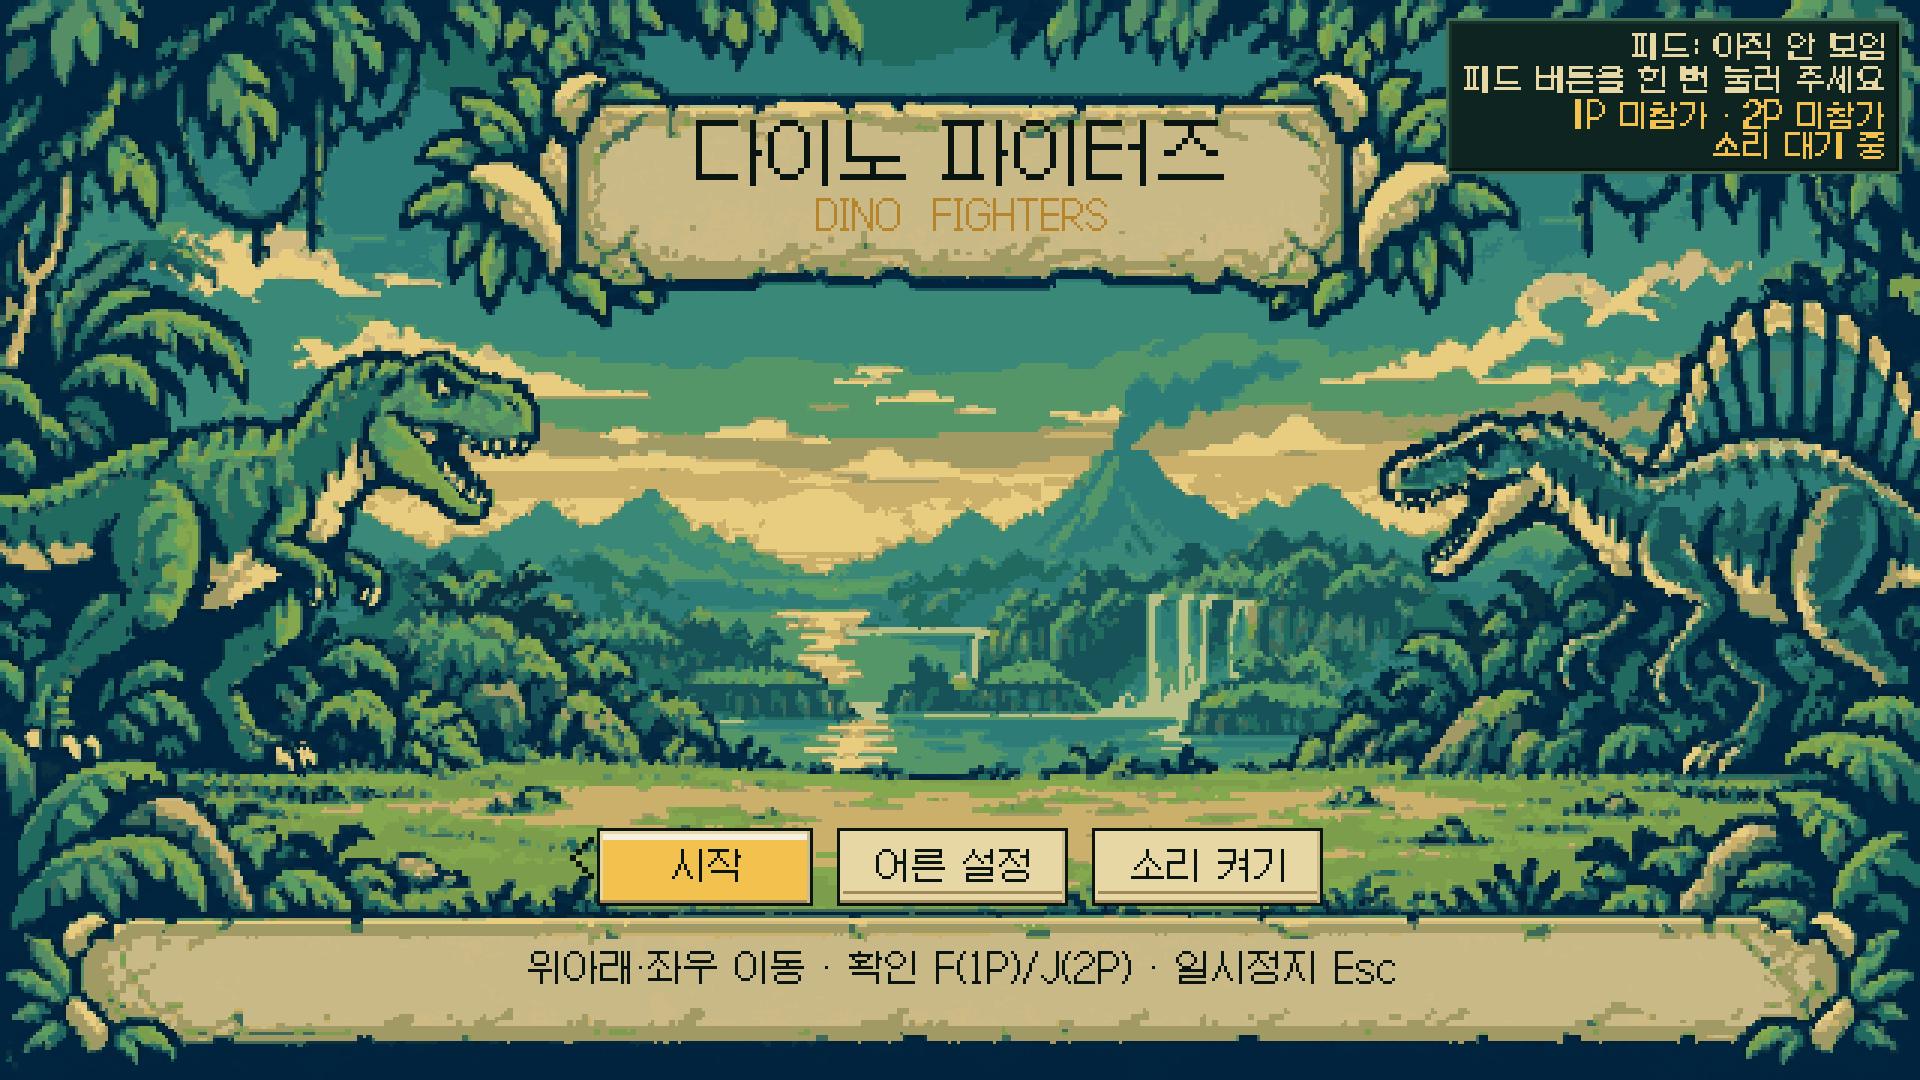
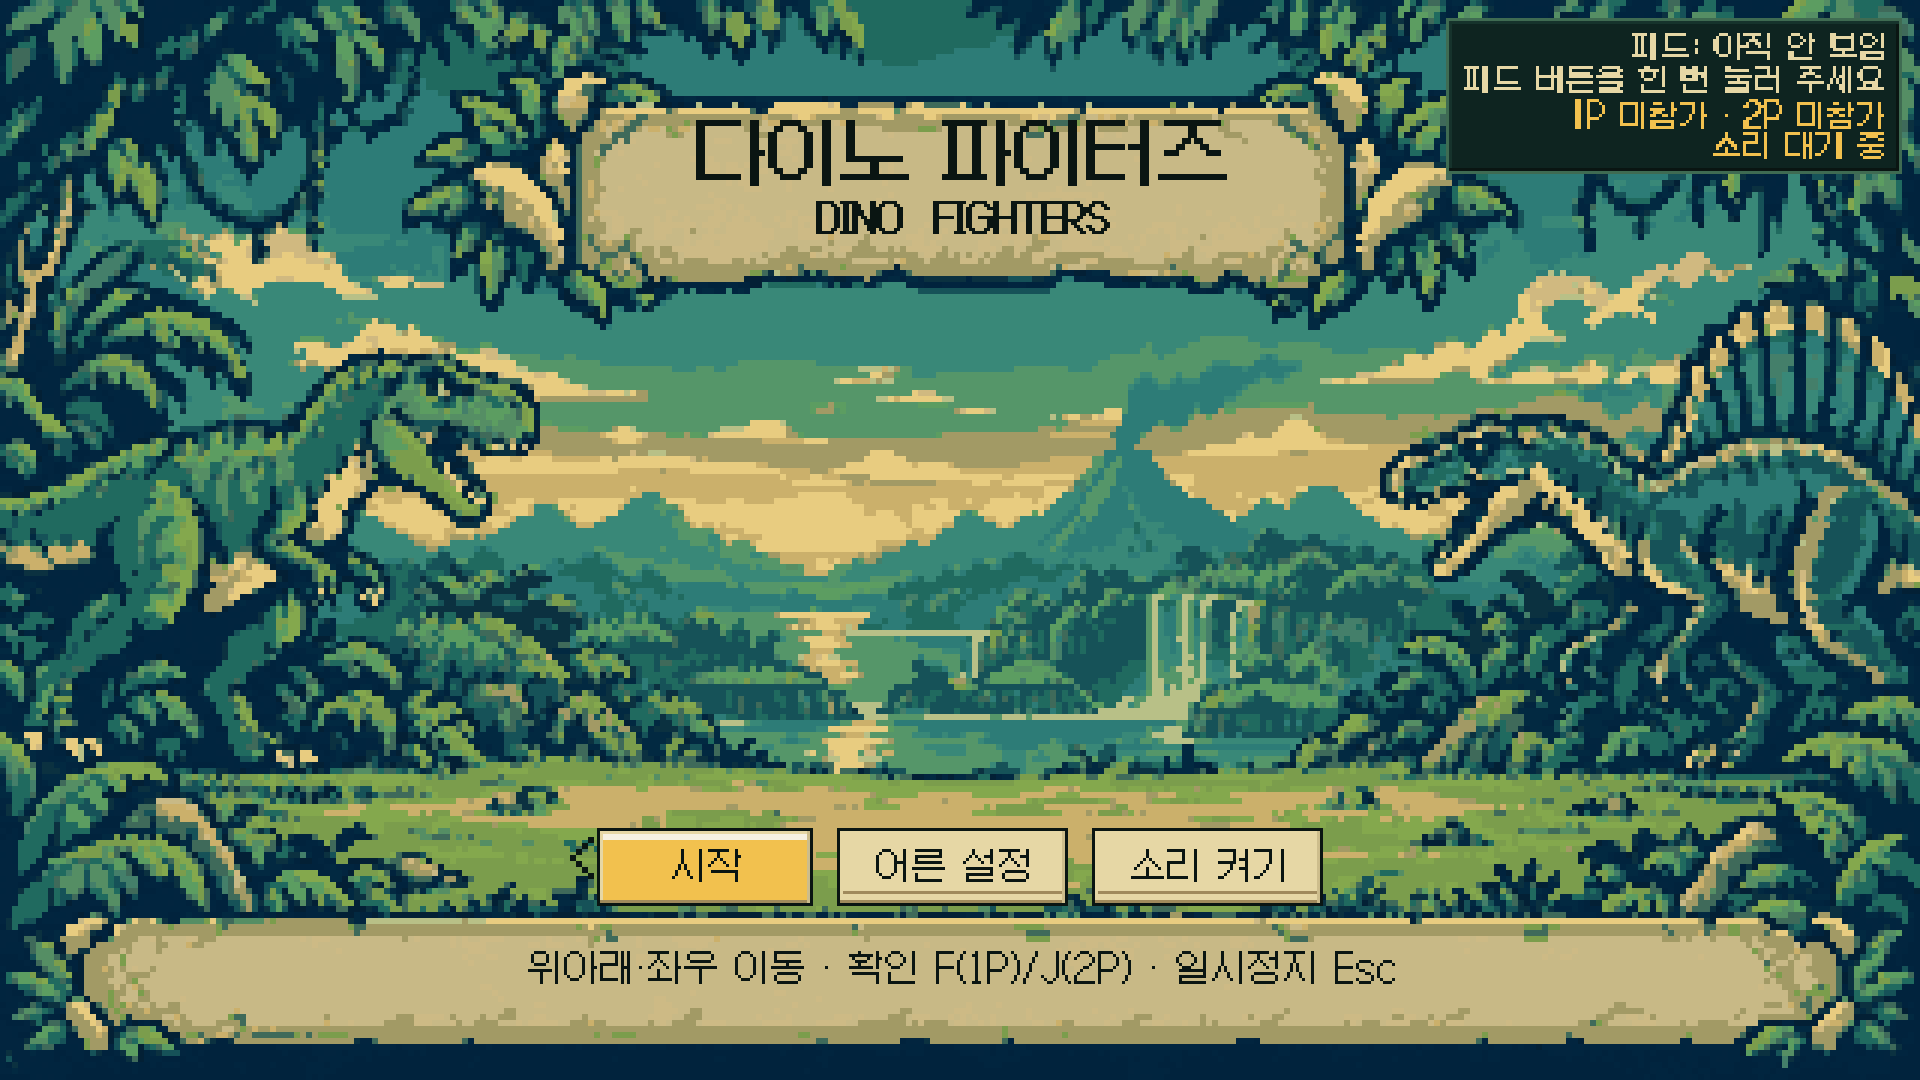
fix: 검수 반려 4건 — 도트 밀도·HUD 초상·글자 여백 + 일시정지/결과 캡처
- 타이틀 보드를 2×2 블록 양자화(다수색)로 굵게: 나뭇잎·폭포가 1px 단위로 흩어져 화면에서
  일러스트처럼 보이던 것을 다른 화면과 같은 도트 알갱이(화면 6px)로 맞췄다. 원본 보드는 그대로.
- 타이틀 로고·영문 부제에 1px 오프셋 굵기(weight 2), 부제는 잉크색으로 대비 확보.
- HUD 초상: 66 고정 크롭을 요청 상자 크기로 자르고 상자를 40→52로 키워 얼굴이 들어오게 수정
  (이전에는 66 크롭을 36 상자에 가운데 클립해 턱·목만 남았다).
- 선택 화면: 배너 제목/난이도 칩 좌우 여백 확보, 하단 판을 키우고 이름·설명·능력·안내 줄 간격 확대.
- 일시정지·결과 화면 캡처 추가(evidence-dot-font/4-pause.png, 5-result.png).
- 753 tests·tsc·build:pilot 통과.

diff --git a/src/rendering/pixel/PixelScreens.ts b/src/rendering/pixel/PixelScreens.ts
@@ -126,8 +126,9 @@ export function drawTitleScreen(g: CanvasRenderingContext2D, view: TitleView): v
     board(c, view.loader, 'title', DOT.shade);
     // 상단 배너(아티스트가 비워 둔 자리)에 로고를 도트 글자로 앉힌다.
     // 글자는 잉크 기준으로 가운데를 맞추므로(TextCenter) 두 줄 모두 배너 안쪽에 들어온다.
-    textCenter(c, '다이노 파이터즈', W / 2, 51, { size: 22, color: DOT.ink });
-    textCenter(c, 'DINO  FIGHTERS', W / 2, 72, { size: 11, color: DOT.goldDark });
+    // 배경을 2×2 블록(화면 6px)으로 눌렀으므로 로고도 굵게: 1px 오프셋 한 번(2아트px 획).
+    textCenter(c, '다이노 파이터즈', W / 2, 51, { size: 22, color: DOT.ink, weight: 2 });
+    textCenter(c, 'DINO  FIGHTERS', W / 2, 73, { size: 11, color: DOT.ink, weight: 2 });
 
     // 메뉴: 배너 바로 위 풀밭 줄에 가로 탭. 아래 양피지 배너와 9아트px 띄운다.
     const tabH = 26;
@@ -241,9 +242,9 @@ export function drawSelectScreen(g: CanvasRenderingContext2D, view: SelectView):
   inDotGrid(g, DOT_K_UI, (c) => {
     board(c, view.loader, 'select', DOT.shade);
     // 상단 배너: 왼쪽에 제목, 오른쪽에 지금 적용되는 난이도·도움(기존판과 같은 정보).
-    text(c, '공룡을 고르세요', SELECT_BANNER.left + 26, SELECT_BANNER.y, { size: 13, color: DOT.ink });
+    text(c, '공룡을 고르세요', SELECT_BANNER.left + 40, SELECT_BANNER.y, { size: 13, color: DOT.ink });
     // 오른쪽 칩은 배너 안쪽(양피지)에서 끝나게 자른다 — 넘치면 횃불 그림 위로 나간다.
-    text(c, clipText(selectSettingsChip(view.settings, view.twoPlayer), 10, 150), SELECT_BANNER.right - 26, SELECT_BANNER.y + 2, {
+    text(c, clipText(selectSettingsChip(view.settings, view.twoPlayer), 10, 150), SELECT_BANNER.right - 40, SELECT_BANNER.y + 2, {
       size: 10, color: view.twoPlayer ? DOT.parchmentDark : DOT.ink, align: 'right',
     });
 
@@ -276,28 +277,28 @@ export function drawSelectScreen(g: CanvasRenderingContext2D, view: SelectView):
     });
 
     // 하단 정보 띠: 고른 공룡 이름·설명·능력 눈금·특수기.
-    panel(c, 20, 276, 600, 80, { fill: DOT.panel, top: DOT.panelTop, side: DOT.ink, border: DOT.ink });
-    panel(c, 24, 280, 592, 72, { fill: DOT.deep, top: DOT.shade, side: DOT.ink, border: DOT.stone });
+    panel(c, 20, 272, 600, 84, { fill: DOT.panel, top: DOT.panelTop, side: DOT.ink, border: DOT.ink });
+    panel(c, 24, 276, 592, 76, { fill: DOT.deep, top: DOT.shade, side: DOT.ink, border: DOT.stone });
     if (view.hovered) {
-      text(c, view.hovered.name, 34, 286, { size: 18, color: DOT.gold });
-      text(c, view.hovered.archetype, 44 + dotTextWidth(view.hovered.name, 18), 292, { size: 13, color: DOT.moss });
-      text(c, clipText(view.hovered.description, 13, 470), 34, 306, { size: 13, color: DOT.white });
+      text(c, view.hovered.name, 34, 281, { size: 18, color: DOT.gold });
+      text(c, view.hovered.archetype, 44 + dotTextWidth(view.hovered.name, 18), 288, { size: 13, color: DOT.moss });
+      text(c, clipText(view.hovered.description, 13, 470), 34, 305, { size: 13, color: DOT.white });
       const pips = (label: string, value: number, x: number, y: number): void => {
         text(c, label, x, y, { size: 13, color: DOT.dim });
         const px = x + dotTextWidth(label, 13) + 6;
         for (let i = 0; i < 5; i++) box(c, px + i * 10, y + 2, 8, 9, i < value ? DOT.gold : DOT.hpBack);
       };
-      pips('빠름', view.hovered.speed, 34, 322);
-      pips('힘', view.hovered.power, 140, 322);
-      pips('단단함', view.hovered.toughness, 222, 322);
-      text(c, `특수기 · ${clipText(view.hovered.special, 13, 130)}`, 384, 322, { size: 13, color: DOT.dim });
+      pips('빠름', view.hovered.speed, 34, 321);
+      pips('힘', view.hovered.power, 140, 321);
+      pips('단단함', view.hovered.toughness, 222, 321);
+      text(c, `특수기 · ${clipText(view.hovered.special, 13, 130)}`, 384, 321, { size: 13, color: DOT.dim });
 
     }
-    text(c, '이동 방향키 · 확인 F/J · 취소 G/K', 34, 337, { size: 11, color: DOT.stoneLight });
+    text(c, '이동 방향키 · 확인 F/J · 취소 G/K', 34, 339, { size: 11, color: DOT.stoneLight });
     const p1State = `1P ${view.picks[0].locked ? '확정' : '고르는 중'}`;
     const p2State = `2P ${view.picks[1].locked ? '확정' : '고르는 중'}`;
-    text(c, p2State, 606, 337, { size: 11, color: DOT.p2, align: 'right' });
-    text(c, p1State, 606 - dotTextWidth(p2State, 11) - 12, 337, { size: 11, color: DOT.p1, align: 'right' });
+    text(c, p2State, 606, 339, { size: 11, color: DOT.p2, align: 'right' });
+    text(c, p1State, 606 - dotTextWidth(p2State, 11) - 12, 339, { size: 11, color: DOT.p1, align: 'right' });
   });
 }
 

diff --git a/src/rendering/pixel/PixelStyle.ts b/src/rendering/pixel/PixelStyle.ts
@@ -344,17 +344,83 @@ const BOARD_PATH: Record<UiBoard, string> = {
   stage: 'dev-art/ui/stage_640x360.png',
 };
 
-const boardCache = new Map<UiBoard, HTMLImageElement | null>();
+/**
+ * 보드마다 '도트 알갱이' 배수. 1 = 원본 픽셀 그대로, 2 = 2×2 블록을 한 색으로 눌러 굵게.
+ *
+ * 타이틀 보드는 나뭇잎·폭포·안개가 1px 단위로 흩어져 있어, 같은 640×360 격자인데도 화면에서는
+ * 일러스트처럼 보였다(검수 지적 2026-10-31: "타이틀은 일러스트, 대전은 굵은 도트").
+ * 2×2 다수색 양자화로 알갱이를 화면 6px(아트 2px)로 키워 다른 화면과 같은 도트 언어로 맞춘다.
+ */
+const BOARD_BLOCK: Record<UiBoard, number> = { title: 2, menu: 1, select: 1, stage: 1 };
+
+const boardCache = new Map<UiBoard, CanvasImageSource | null>();
 const boardPending = new Set<UiBoard>();
 
+/** 2×2 블록을 다수색 하나로 눌러 굵은 도트로 만든다(원본 그림은 건드리지 않는다). */
+function quantizeBlocks(image: HTMLImageElement | HTMLCanvasElement | ImageBitmap, block: number): CanvasImageSource {
+  if (block <= 1 || !hasDocument()) return image;
+  const w = 640;
+  const h = 360;
+  const src = document.createElement('canvas');
+  src.width = w;
+  src.height = h;
+  const sctx = src.getContext('2d');
+  if (!sctx) return image;
+  sctx.imageSmoothingEnabled = false;
+  sctx.drawImage(image, 0, 0, w, h);
+  const data = sctx.getImageData(0, 0, w, h);
+  const out = sctx.createImageData(w, h);
+  for (let by = 0; by < h; by += block) {
+    for (let bx = 0; bx < w; bx += block) {
+      // 블록 안에서 가장 많이 나온 색을 고른다(동수는 먼저 만난 색).
+      const tally = new Map<number, number>();
+      for (let dy = 0; dy < block; dy++) {
+        for (let dx = 0; dx < block; dx++) {
+          const x = Math.min(bx + dx, w - 1);
+          const y = Math.min(by + dy, h - 1);
+          const i = (y * w + x) * 4;
+          const key = (data.data[i] << 16) | (data.data[i + 1] << 8) | data.data[i + 2];
+          tally.set(key, (tally.get(key) ?? 0) + 1);
+        }
+      }
+      let best = 0;
+      let bestCount = -1;
+      for (const [key, count] of tally) {
+        if (count > bestCount) { best = key; bestCount = count; }
+      }
+      const r = (best >> 16) & 0xff;
+      const gg = (best >> 8) & 0xff;
+      const b = best & 0xff;
+      for (let dy = 0; dy < block; dy++) {
+        for (let dx = 0; dx < block; dx++) {
+          const x = Math.min(bx + dx, w - 1);
+          const y = Math.min(by + dy, h - 1);
+          const i = (y * w + x) * 4;
+          out.data[i] = r;
+          out.data[i + 1] = gg;
+          out.data[i + 2] = b;
+          out.data[i + 3] = 255;
+        }
+      }
+    }
+  }
+  const done = document.createElement('canvas');
+  done.width = w;
+  done.height = h;
+  const dctx = done.getContext('2d');
+  if (!dctx) return image;
+  dctx.putImageData(out, 0, 0);
+  return done;
+}
+
 /** 보드 그림을 한 번만 받아 둔다(없으면 null → 절차적 도트 배경으로 대체). */
-export function uiBoard(loader: AssetLoader, board: UiBoard): HTMLImageElement | null {
+export function uiBoard(loader: AssetLoader, board: UiBoard): CanvasImageSource | null {
   const cached = boardCache.get(board);
   if (cached !== undefined) return cached;
   if (!boardPending.has(board)) {
     boardPending.add(board);
     void loader.loadImage(BOARD_PATH[board]).then((image) => {
-      boardCache.set(board, image);
+      if (image) boardCache.set(board, quantizeBlocks(image, BOARD_BLOCK[board]));
       boardPending.delete(board);
     }).catch(() => boardPending.delete(board));
   }

diff --git a/src/rendering/pixel/DotSprites.ts b/src/rendering/pixel/DotSprites.ts
@@ -26,7 +26,7 @@ export interface DotPortrait {
 
 export interface DotSpritesApi {
   request(characterId: string): void;
-  portrait(characterId: string, alternatePalette?: boolean): DotPortrait | null;
+  portrait(characterId: string, alternatePalette?: boolean, size?: number): DotPortrait | null;
   drawPortrait(g: CanvasRenderingContext2D, characterId: string, x: number, y: number, size: number, alternatePalette?: boolean): boolean;
   drawState(
     g: CanvasRenderingContext2D, characterId: string, state: SpriteState, step: number,
@@ -102,22 +102,24 @@ class DotSpriteSet implements DotSpritesApi {
     return (alternatePalette ? this.p2Sheets.get(characterId) ?? this.sheets.get(characterId) : this.sheets.get(characterId)) ?? null;
   }
 
-  portrait(characterId: string, alternatePalette = false): DotPortrait | null {
+  portrait(characterId: string, alternatePalette = false, size = PORTRAIT_SIZE): DotPortrait | null {
     const manifest = this.manifests.get(characterId);
     if (!manifest) { this.request(characterId); return null; }
     const image = this.sheet(characterId, alternatePalette);
     const frame = manifest.frames[manifest.clips.idle.frames[0]];
     if (!image || !frame) return null;
     // 머리는 앞쪽(오른쪽)·위쪽. 상자를 프레임 안으로 밀어 넣는다(1:1 그대로, 확대 없음).
-    const sw = Math.min(PORTRAIT_SIZE, frame.w);
-    const sh = Math.min(PORTRAIT_SIZE, Math.round(frame.h * 0.78), frame.h);
+    // 자르는 크기는 **요청한 상자 크기**를 따른다: 66 으로 잘라 놓고 36 상자에 가운데만 클립하면
+    // 머리가 아니라 목·턱만 남는다(HUD 초상 결함 2026-10-31).
+    const sw = Math.min(size, frame.w);
+    const sh = Math.min(size, Math.round(frame.h * 0.78), frame.h);
     const sx = clamp(frame.x + frame.w - sw, frame.x, frame.x + frame.w - sw);
     const sy = clamp(frame.y + Math.round(frame.h * 0.02), frame.y, frame.y + frame.h - sh);
     return { image, sx, sy, sw, sh };
   }
 
   drawPortrait(g: CanvasRenderingContext2D, characterId: string, x: number, y: number, size: number, alternatePalette = false): boolean {
-    const portrait = this.portrait(characterId, alternatePalette);
+    const portrait = this.portrait(characterId, alternatePalette, size);
     if (!portrait) return false;
     g.save();
     g.imageSmoothingEnabled = false;

diff --git a/src/rendering/pixel/PixelHud.ts b/src/rendering/pixel/PixelHud.ts
@@ -167,26 +167,27 @@ export function drawPixelHud(g: CanvasRenderingContext2D, width: number, height:
     for (const { fighter, mirrored, accent } of sides) {
       const ratio = fighter.health / fighter.maxHealth;
 
-      portrait(c, sprites, fighter.data.id, edge(mirrored, 4, 40), 4, 40, fighter.useAlternatePalette, accent);
+      // 초상은 머리가 들어오는 크기(52)로. 40 이면 머리가 잘려 턱·목만 남았다(검수 2026-10-31).
+      portrait(c, sprites, fighter.data.id, edge(mirrored, 4, 52), 4, 52, fighter.useAlternatePalette, accent);
 
       // 체력: 가운데에서 바깥으로 줄어드는 방향(1P 왼쪽 정렬, 2P 오른쪽 정렬).
-      blockBar(c, edge(mirrored, 48, 150), 6, 150, 12, ratio, DOT.hp, mirrored);
+      blockBar(c, edge(mirrored, 62, 138), 6, 138, 12, ratio, DOT.hp, mirrored);
 
       // 1P/2P 색 표식(체력바 바로 아래 얇은 띠).
-      box(c, edge(mirrored, 48, 34), 19, 34, 2, accent);
+      box(c, edge(mirrored, 62, 34), 19, 34, 2, accent);
 
       // 게이지: 얇은 블록 눈금. 꽉 차면 색이 금색으로 바뀌고 옆에 '특수기 준비'.
       const meterW = 70;
       const ready = fighter.meter >= MAX_METER;
-      blockBar(c, edge(mirrored, 48, meterW), 23, meterW, 6, fighter.meter / MAX_METER, ready ? DOT.gold : DOT.moss, mirrored);
+      blockBar(c, edge(mirrored, 62, meterW), 23, meterW, 6, fighter.meter / MAX_METER, ready ? DOT.gold : DOT.moss, mirrored);
       if (ready) {
-        text(c, SPECIAL_READY_LABEL, anchor(mirrored, 122), 21, {
+        text(c, SPECIAL_READY_LABEL, anchor(mirrored, 136), 21, {
           size: 9, color: DOT.gold, align: mirrored ? 'right' : 'left',
         });
       }
 
       // 이름표(라운드 점과 같은 줄, 서로 겹치지 않는 폭).
-      text(c, fighter.data.name, anchor(mirrored, 48), 38, { size: 10, color: DOT.white, align: mirrored ? 'right' : 'left' });
+      text(c, fighter.data.name, anchor(mirrored, 62), 38, { size: 10, color: DOT.white, align: mirrored ? 'right' : 'left' });
 
       // 라운드 점: 0승에서도 보이는 점.
       roundPips(c, fighter.roundWins, mirrored);
